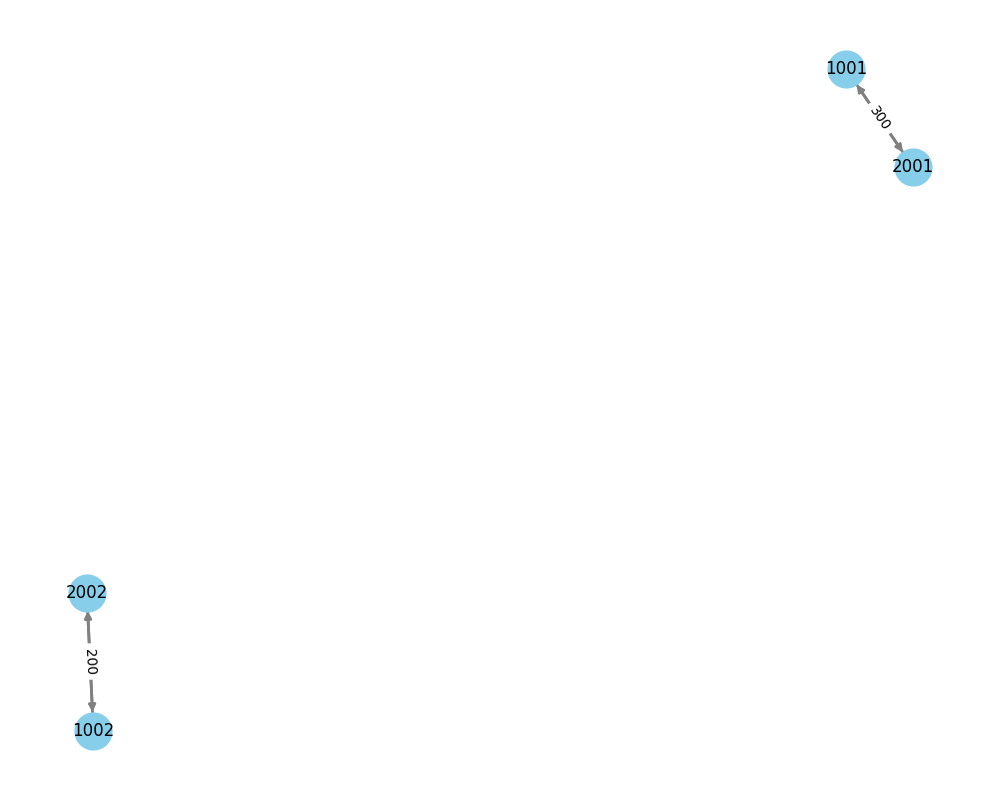
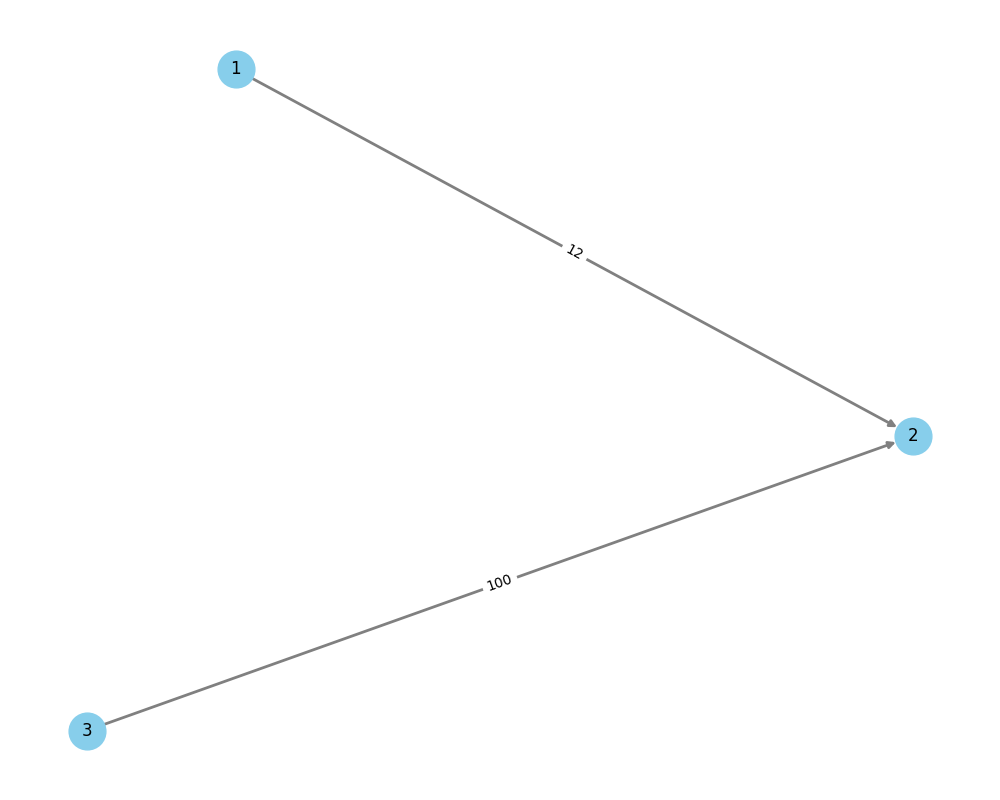
Versión final: lógica bancaria, validaciones, visualizaciones y datos

diff --git a/main.py b/main.py
@@ -10,6 +10,9 @@ from repositories.transferencia_repo import TransferenciaRepo
 from services.admin_service import AdminService
 from services.bank_service import BankService
 from services.analytics_service import AnalyticsService
+from analytics.anomalias import AnomaliasDetector
+from analytics.grafo import GrafoTransacciones
+from analytics.visualizaciones import Visualizador
 
 
 # ============================================================
@@ -57,6 +60,32 @@ def login_cliente(usuario_repo):
 
     print(f"\nBienvenido, {usuario.nombres} {usuario.apellidos}")
     return usuario
+# ============================================================
+# LOGIN DEL admin
+# ============================================================
+def login_admin(usuario_repo):
+    print("\n===== LOGIN ADMINISTRADOR =====")
+    username = input("Ingrese su username: ")
+    pin = input("Ingrese su PIN: ")
+
+    usuario = usuario_repo.buscar_por_dui(username)  # O cambiar a buscar_por_username si lo tenés
+
+    if not usuario:
+        print("Administrador no encontrado.")
+        return None
+
+    if usuario.pin != pin:
+        print("PIN incorrecto.")
+        return None
+
+    if usuario.rol != "admin":
+        print("Este usuario no es un administrador.")
+        return None
+
+    print(f"\nBienvenido, {usuario.nombres} {usuario.apellidos}")
+    return usuario
+
+
 
 
 # ============================================================
@@ -128,6 +157,10 @@ def depositar_cliente(cliente, cuenta_repo, bank_service):
     numero = input("Número de cuenta: ")
     monto = float(input("Monto a depositar: "))
 
+    if monto <= 0:
+        print("El monto debe ser mayor a cero.")
+        return
+
     cuenta = cuenta_repo.obtener_por_numero(numero)
 
     if not cuenta or cuenta.cliente_id != cliente.dui:
@@ -138,10 +171,15 @@ def depositar_cliente(cliente, cuenta_repo, bank_service):
     print(f"Depósito realizado. ID transacción: {trans.id}")
 
 
+
 def retirar_cliente(cliente, cuenta_repo, bank_service):
     print("\n--- Retirar ---")
     numero = input("Número de cuenta: ")
     monto = float(input("Monto a retirar: "))
+
+    if monto <= 0:
+        print("El monto debe ser mayor a cero.")
+        return
 
     cuenta = cuenta_repo.obtener_por_numero(numero)
 
@@ -153,6 +191,7 @@ def retirar_cliente(cliente, cuenta_repo, bank_service):
     print(f"Retiro realizado. ID transacción: {trans.id}")
 
 
+
 def transferir_cliente(cliente, cuenta_repo, bank_service):
     print("\n--- Transferir ---")
     origen = input("Cuenta origen: ")
@@ -161,14 +200,19 @@ def transferir_cliente(cliente, cuenta_repo, bank_service):
     tipoCuenta = input("Tipo de cuenta (ahorro/corriente): ")
     monto = float(input("Monto a transferir: "))
 
+    if monto <= 0:
+        print("El monto debe ser mayor a cero.")
+        return
+
     cuenta_origen = cuenta_repo.obtener_por_numero(origen)
 
     if not cuenta_origen or cuenta_origen.cliente_id != cliente.dui:
         print("No puedes operar esta cuenta.")
         return
 
-    transferencia = bank_service.transferir(origen, destino, monto)
+    transferencia = bank_service.transferir(origen, destino, tipoCuenta, tipoTransaccion, monto)
     print(f"Transferencia realizada. ID: {transferencia.id}")
+
 
 
 def obtener_cuentas_cliente(cliente, cuenta_repo):
@@ -210,41 +254,40 @@ def menu_admin(admin_service, bank_service, analytics_service):
         print("6. Bloquear cuenta")
         print("7. Activar cuenta")
         print("8. Ver estadísticas del sistema")
-        print("9. Salir al menú principal")
+        print("9. Generar visualizaciones")
+        print("10. Ver grafo de transferencias")
+        print("11. Detectar anomalías")
+        print("12. Salir al menú principal")
 
         opcion = input("Seleccione una opción: ")
 
         try:
             if opcion == "1":
                 crear_cliente(admin_service)
-
             elif opcion == "2":
                 crear_admin(admin_service)
-
             elif opcion == "3":
                 crear_cuenta(admin_service)
-
             elif opcion == "4":
                 listar_usuarios(admin_service)
-
             elif opcion == "5":
                 listar_cuentas(admin_service)
-
             elif opcion == "6":
                 bloquear_cuenta(admin_service)
-
             elif opcion == "7":
                 activar_cuenta(admin_service)
-
             elif opcion == "8":
                 ver_estadisticas(analytics_service)
-
             elif opcion == "9":
+                generar_visualizaciones()
+            elif opcion == "10":
+                generar_grafo()
+            elif opcion == "11":
+                detectar_anomalias()
+            elif opcion == "12":
                 break
-
             else:
                 print("Opción inválida.")
-
         except Exception as e:
             print(f"Error: {e}")
 
@@ -330,6 +373,43 @@ def ver_estadisticas(analytics_service):
     print(f"Monto total movido: ${stats['monto_total']}")
     print(f"Monto promedio por transacción: ${stats['monto_promedio']}")
 
+def generar_visualizaciones():
+    print("\n--- Generando visualizaciones... ---")
+    vis = Visualizador()
+    vis.serie_temporal()
+    vis.heatmap_actividad()
+    vis.boxplot_cuentas()
+    vis.scatter_depositos_vs_gastos()
+    print("✅ Visualizaciones guardadas en 'outputs/plots/'.")
+
+def generar_grafo():
+    print("\n--- Generando grafo de transferencias... ---")
+    grafo = GrafoTransacciones()
+    grafo.construir_grafo()
+    grafo.visualizar_grafo()
+    grafo.resumen_metricas()
+    print("✅ Grafo guardado en 'outputs/plots/grafo_transferencias.png'.")
+
+def detectar_anomalias():
+    print("\n--- Detección de Anomalías ---")
+    detector = AnomaliasDetector()
+
+    z_outliers = detector.z_score_outliers()
+    structuring = detector.structuring()
+    nocturnas = detector.actividad_nocturna()
+
+    print(f"\n🔍 Z-score (outliers): {len(z_outliers)} transacciones detectadas.")
+    for t in z_outliers:
+        print(f"  - {t['fecha']} | {t['tipo']} | ${t['monto']} | ID: {t['id']}")
+
+    print(f"\n🔍 Structuring: {len(structuring)} pares detectados.")
+    for t1, t2 in structuring:
+        print(f"  - {t1['fecha']} y {t2['fecha']} | {t1['monto']} + {t2['monto']} | Cuenta: {t1['cuenta_id']}")
+
+    print(f"\n🌙 Actividad nocturna: {len(nocturnas)} transacciones detectadas.")
+    for t in nocturnas:
+        print(f"  - {t['fecha']} | {t['tipo']} | ${t['monto']} | ID: {t['id']}")
+
 
 # ============================================================
 # MENÚ PRINCIPAL
@@ -346,8 +426,10 @@ def main():
 
         opcion = input("Seleccione una opción: ")
 
-        if opcion == "1":
-            menu_admin(admin_service, bank_service, analytics_service)
+        if opcion=="1":
+            admin = login_admin(usuario_repo)
+            if admin:
+                menu_admin(admin_service, bank_service, analytics_service)
 
         elif opcion == "2":
             cliente = login_cliente(usuario_repo)

diff --git a/analytics/visualizaciones.py b/analytics/visualizaciones.py
@@ -64,31 +64,39 @@ class Visualizador:
         plt.close()
 
     def scatter_depositos_vs_gastos(self):
-        if "tipo_transaccion" not in self.df.columns:
-            print("⚠ La columna 'tipo_transaccion' no está disponible.")
-            return
+        try:
+            df_trans = pd.read_csv("data/transacciones.csv", header=0)
+            df_trans["fecha"] = pd.to_datetime(df_trans["fecha"], errors="coerce")
 
-        cuentas = defaultdict(lambda: {"depositos": 0, "gastos": 0})
-        for _, t in self.df.iterrows():
-            if t["tipo_transaccion"] == "deposito":
-                cuentas[t["cuenta_destino"]]["depositos"] += t["monto"]
-            elif t["tipo_transaccion"] == "gasto":
-                cuentas[t["cuenta_origen"]]["gastos"] += t["monto"]
+            cuentas = defaultdict(lambda: {"depositos": 0, "gastos": 0})
+            for _, t in df_trans.iterrows():
+                if t["tipo"] == "deposito":
+                    cuentas[t["cuenta_id"]]["depositos"] += t["monto"]
+                elif t["tipo"] == "retiro":
+                    cuentas[t["cuenta_id"]]["gastos"] += t["monto"]
 
-        df_cuentas = pd.DataFrame([
-            {"cuenta_id": cid, "depositos": v["depositos"], "gastos": v["gastos"]}
-            for cid, v in cuentas.items()
-        ])
+            df_cuentas = pd.DataFrame([
+                {"cuenta_id": cid, "depositos": v["depositos"], "gastos": v["gastos"]}
+                for cid, v in cuentas.items()
+                if v["depositos"] > 0 and v["gastos"] > 0
+            ])
 
-        if df_cuentas.empty:
-            print("⚠ No hay datos suficientes para generar el gráfico de depósitos vs gastos.")
-            return
+            if df_cuentas.empty:
+                print("⚠ No hay datos suficientes para generar el gráfico de depósitos vs gastos.")
+                return
 
-        plt.figure(figsize=(8, 6))
-        sns.scatterplot(data=df_cuentas, x="depositos", y="gastos")
-        plt.title("Relación entre depósitos y gastos por cuenta")
-        plt.xlabel("Total depositado")
-        plt.ylabel("Total gastado")
-        plt.tight_layout()
-        plt.savefig("outputs/plots/scatter_depositos_vs_gastos.png")
-        plt.close()
+            plt.figure(figsize=(8, 6))
+            ax = sns.scatterplot(data=df_cuentas, x="depositos", y="gastos")
+
+            # Agregar etiquetas a cada punto
+            for _, row in df_cuentas.iterrows():
+                ax.text(row["depositos"] + 5, row["gastos"], row["cuenta_id"], fontsize=9)
+
+            plt.title("Relación entre depósitos y gastos por cuenta")
+            plt.xlabel("Total depositado")
+            plt.ylabel("Total retirado")
+            plt.tight_layout()
+            plt.savefig("outputs/plots/scatter_depositos_vs_gastos.png")
+            plt.close()
+        except Exception as e:
+            print(f"⚠ Error al generar el gráfico de depósitos vs gastos: {e}")

diff --git a/services/bank_service.py b/services/bank_service.py
@@ -58,7 +58,7 @@ class BankService:
     # TRANSFERENCIAS
     # ============================================================
 
-    def transferir(self, origen_num, destino_num, monto):
+    def transferir(self, origen_num, destino_num, tipo_cuenta, tipo_transaccion, monto):
         """
         Ejecuta una transferencia completa:
         - Retira de la cuenta origen
@@ -80,7 +80,7 @@ class BankService:
         trans_out = origen.retirar(monto)
         trans_in = destino.depositar(monto)
 
-        transferencia = Transferencia(origen_num, destino_num, monto)
+        transferencia = Transferencia(origen_num, destino_num, tipo_cuenta, tipo_transaccion, monto)
 
         # Persistencia
         self.cuenta_repo.actualizar(origen)
